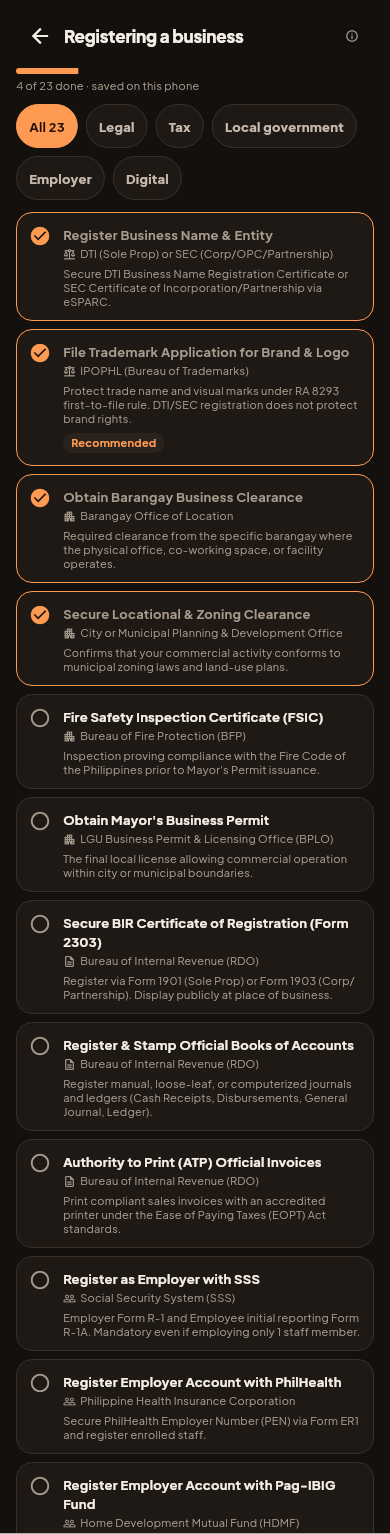
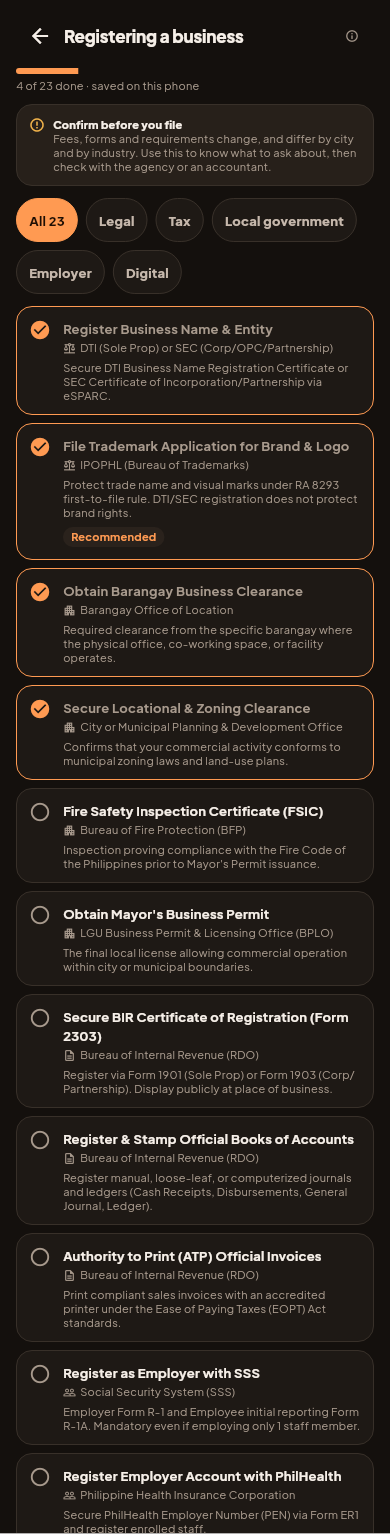
Move the confirm-before-filing warning onto the checklist screen
A defect in my own port, found while the factual review was running and
fixed ahead of it, because it matters more if that review turns up errors
rather than less.

The prototype carries its warning in the component header, on screen:
"Laws, municipal ordinances, BIR tax regulations ... and agency filing
procedures change frequently." This port put the equivalent BEHIND the info
dot, which is the one place it does no good. A dot is read once by the
curious and never by the person in a hurry with a form in front of them.

The founder's own rule already covers this and it was bent rather than
applied. A figure and the line needed to read it stay on screen, everything
that TEACHES goes behind the dot, and the single exception is anything
somebody needs in order to avoid a WRONG CONCLUSION, however long, because
the test is not length but whether silence would mislead. Twenty three steps
naming forms, agencies and deadlines read as a definitive statement of what
the law requires today. Some of it will go out of date. A rejected filing or
a penalty is not a cost a tap can undo.

It sits above the list, styled as the Academy's own "Educational only"
notice is, and built from two plain Text widgets rather than a RichText for
the reason that file already records: a RichText is not findable by
find.text, so a notice built that way cannot be asserted, and a notice
nothing can assert can quietly vanish. The test asserts both halves.
[…]

diff --git a/app/lib/screens/plan/business_checklist_screen.dart b/app/lib/screens/plan/business_checklist_screen.dart
@@ -72,6 +72,8 @@ class _BusinessChecklistScreenState extends State<BusinessChecklistScreen> {
               Spacing.xxl,
             ),
             children: <Widget>[
+              const _ConfirmBeforeFiling(),
+              const SizedBox(height: Spacing.md),
               _Filters(
                 palette: p,
                 current: _filter,
@@ -415,6 +417,82 @@ class _ImportanceTag extends StatelessWidget {
         style: AppType.rowMeta(
           palette,
         ).copyWith(color: tint, fontWeight: FontWeight.w700),
+      ),
+    );
+  }
+}
+
+/// ON THE SCREEN, not behind the dot, and that is the founder's own rule
+/// applied rather than bent.
+///
+/// The rule says a figure and the one line needed to READ it stay on screen,
+/// and everything that TEACHES goes behind the dot. It has one exception:
+/// anything somebody needs in order to avoid a WRONG CONCLUSION stays put,
+/// however long, because the test is not length, it is whether silence would
+/// mislead.
+///
+/// This is that exception. Twenty three steps written in confident, specific
+/// language, naming forms and agencies, read as a definitive list of what the
+/// law requires today. Some of it WILL be out of date, the prototype's own
+/// header said so ("Laws, municipal ordinances, BIR tax regulations ... and
+/// agency filing procedures change frequently"), and the cost of a reader
+/// believing a stale requirement is a rejected filing or a penalty, which is
+/// not a cost a tap can undo.
+///
+/// The first version of this port put exactly this warning behind the info
+/// dot, which is where it does the least good: a dot is read once by the
+/// curious and never by the person in a hurry with a form in front of them.
+class _ConfirmBeforeFiling extends StatelessWidget {
+  const _ConfirmBeforeFiling();
+
+  @override
+  Widget build(BuildContext context) {
+    // Reads the palette rather than taking it, so the banner cannot be pasted
+    // somewhere that hands it the wrong theme.
+    final Palette palette = Palette.of(
+      Theme.of(context).brightness == Brightness.dark
+          ? ThemeMode2.gabi
+          : ThemeMode2.hapon,
+    );
+
+    return Container(
+      width: double.infinity,
+      padding: const EdgeInsets.all(Spacing.md),
+      decoration: BoxDecoration(
+        color: palette.surfaceAlt,
+        borderRadius: BorderRadius.circular(Radii.control),
+        border: Border.all(color: palette.border),
+      ),
+      child: Row(
+        crossAxisAlignment: CrossAxisAlignment.start,
+        children: <Widget>[
+          Icon(Icons.error_outline, size: 16, color: palette.warning),
+          const SizedBox(width: Spacing.sm),
+          // Two plain Texts rather than one RichText, the same reason
+          // _Disclaimer in academy_segment.dart gives: a RichText is not
+          // findable by find.text, so a notice built that way cannot be
+          // asserted, and a notice nothing can assert can quietly vanish.
+          Expanded(
+            child: Column(
+              crossAxisAlignment: CrossAxisAlignment.start,
+              children: <Widget>[
+                Text(
+                  'Confirm before you file',
+                  style: AppType.caption(palette).copyWith(
+                    fontWeight: FontWeight.w800,
+                    color: palette.textPrimary,
+                  ),
+                ),
+                Text(
+                  'Fees, forms and requirements change, and differ by city and '
+                  'by industry. Use this to know what to ask about, then check '
+                  'with the agency or an accountant.',
+                  style: AppType.caption(palette),
+                ),
+              ],
+            ),
+          ),
+        ],
       ),
     );
   }

diff --git a/app/test/widgets/business_checklist_journey_test.dart b/app/test/widgets/business_checklist_journey_test.dart
@@ -172,6 +172,25 @@ void main() {
     expect(find.textContaining('of 23 done'), findsOneWidget);
   });
 
+  testWidgets('the confirm-before-filing notice is ON the screen', (
+    WidgetTester tester,
+  ) async {
+    // The exception to the dot rule, asserted rather than trusted. Twenty
+    // three steps naming forms, agencies and deadlines read as a definitive
+    // statement of what the law requires today, and some of it will go out of
+    // date. Silence there misleads, so the warning does not live behind the
+    // dot, and this is what stops it drifting back there.
+    //
+    // The first version of this port DID put it behind the dot.
+    await openChecklist(tester);
+
+    expect(find.text('Confirm before you file'), findsOneWidget);
+    expect(
+      find.textContaining('check with the agency or an accountant'),
+      findsOneWidget,
+    );
+  });
+
   _readabilityChecks();
 
   testWidgets('every step id in the data file is unique', (
